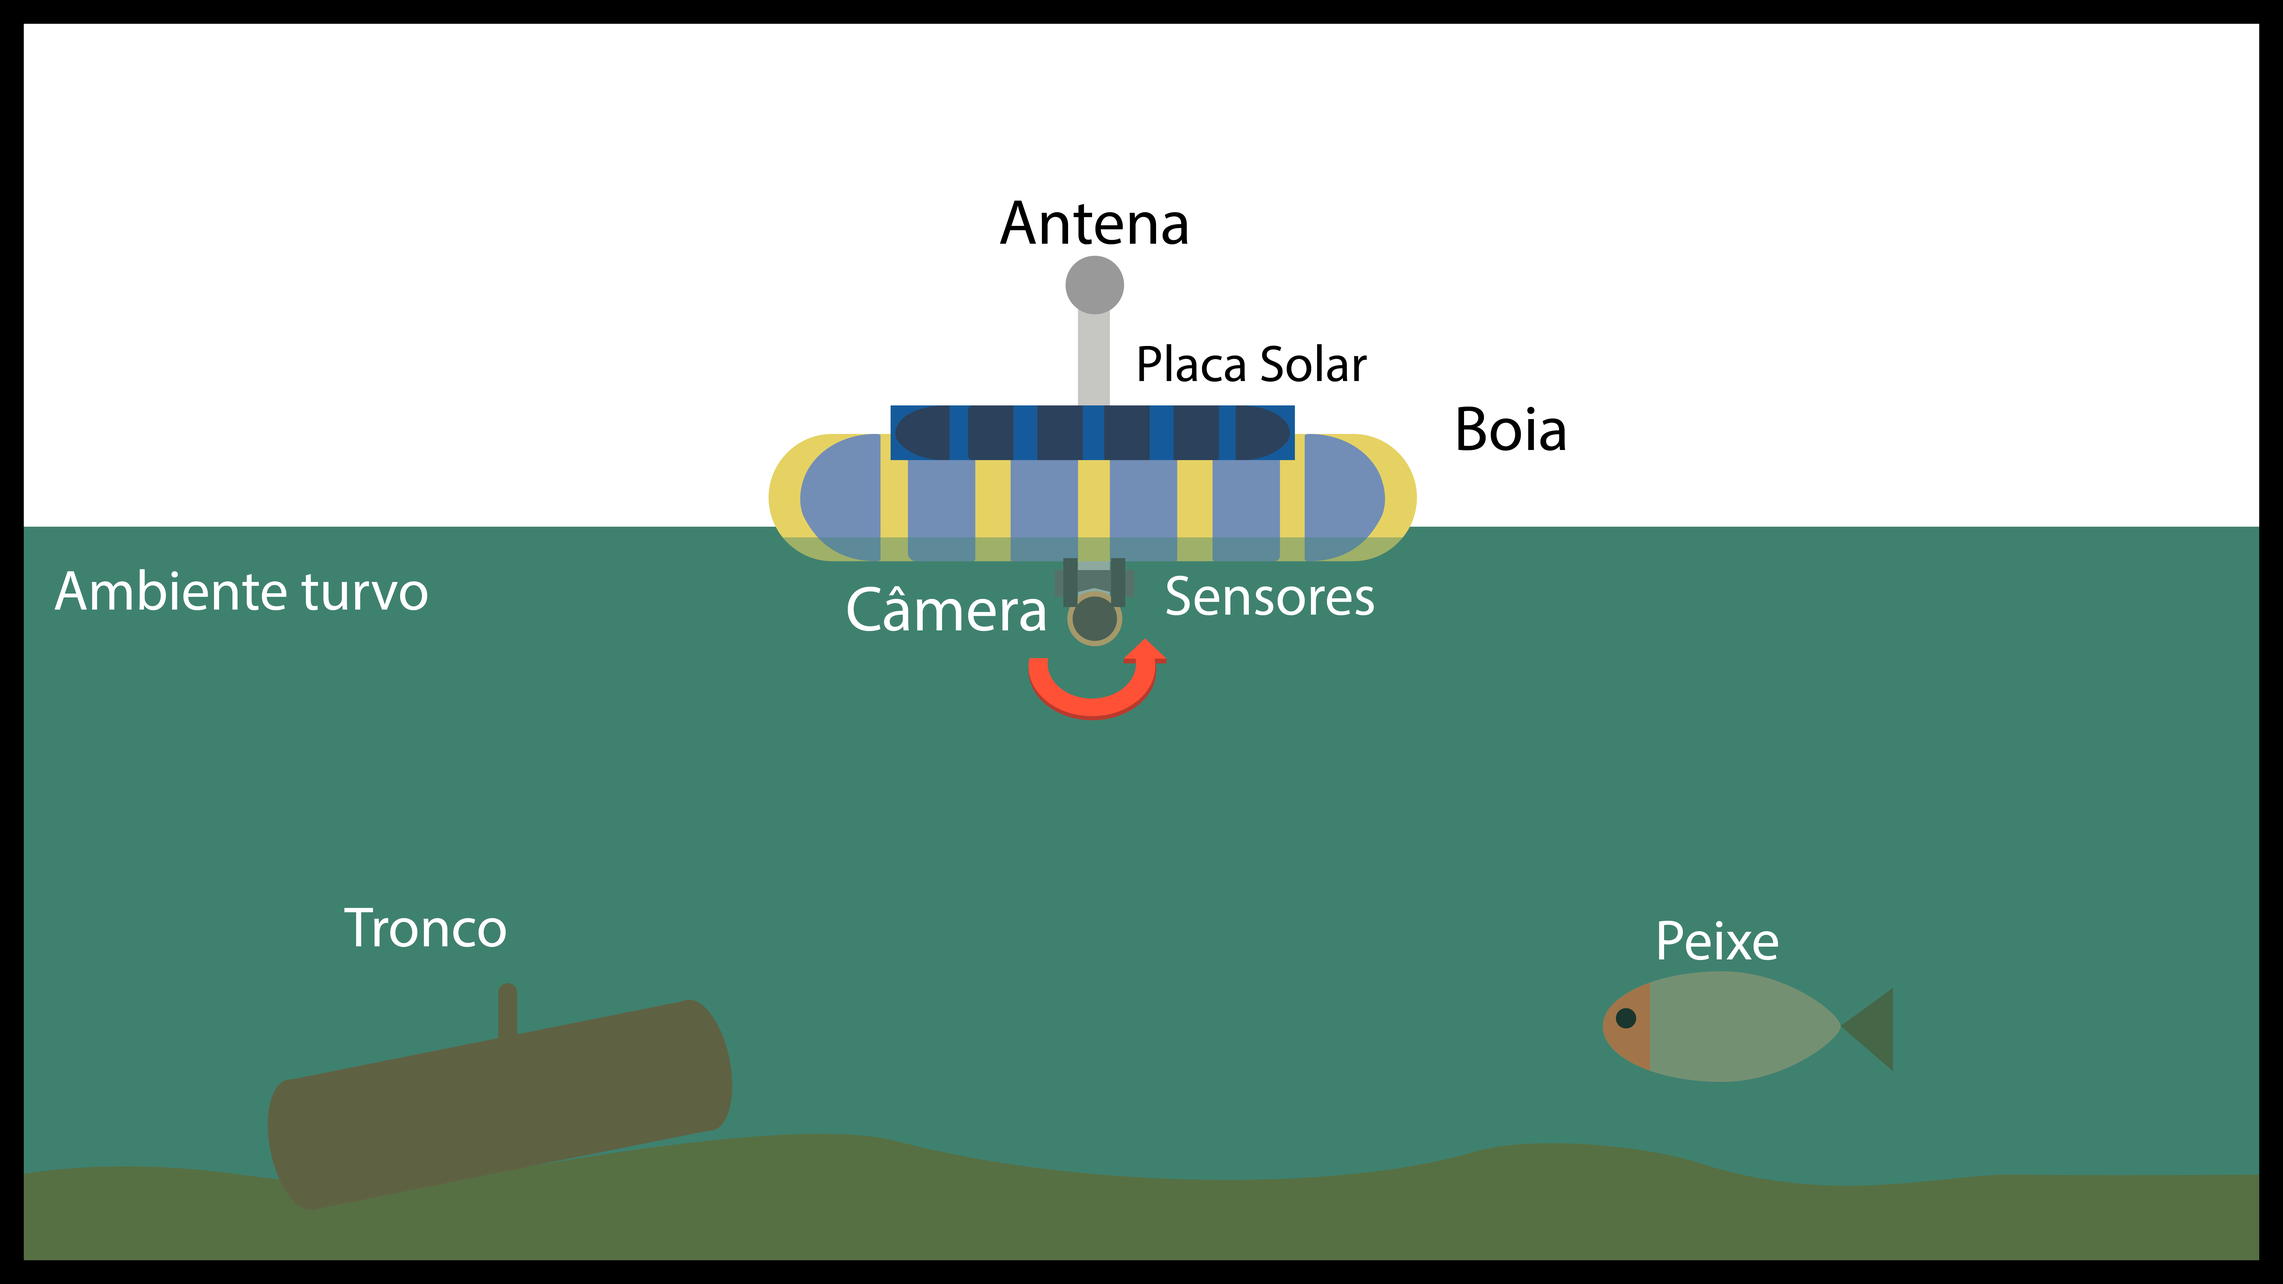
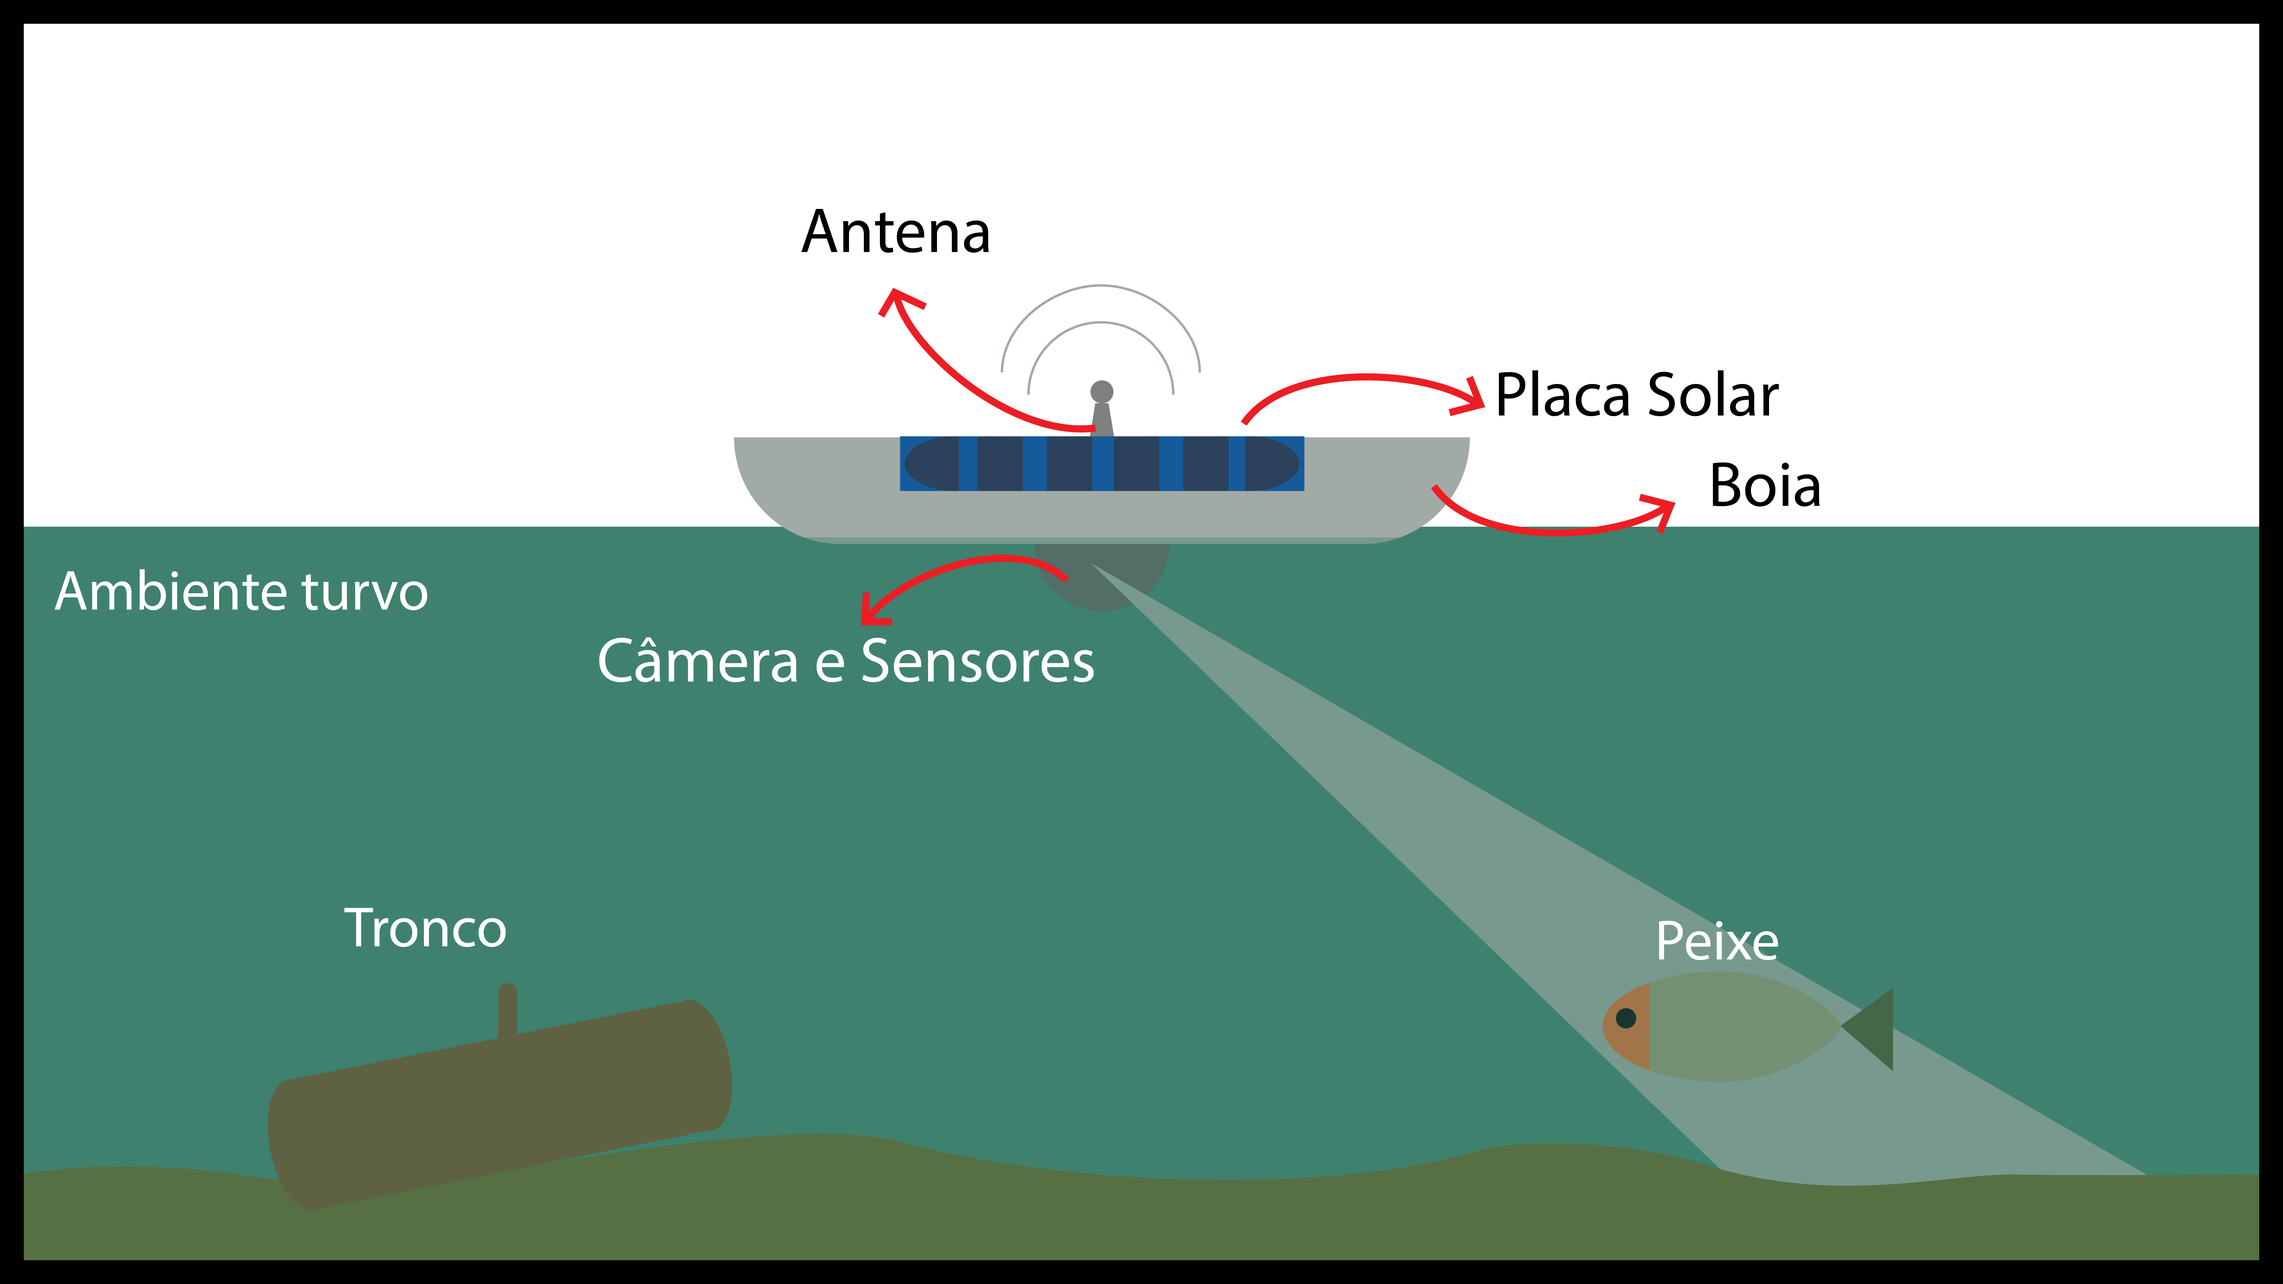
Updates 30

Changed region(s): [[0.25, 0.1562, 0.9375, 0.9375], [0.6562, 0.4062, 0.7188, 0.4375]]

diff --git a/sections/metodologia.tex b/sections/metodologia.tex
@@ -1,18 +1,22 @@
 \label{chapter:metodo}
 \section{Visão geral do método proposto}
    
-O sistema computacional proposto será estruturado em forma de boia aquatica, que será composta com microcontroladores, e sensores para análise da água e para a captura ótica, visando adquirir imagens subaquáticas em tempo real. O sistema proposto contará com um módulo de classificação em uma central conectada a boia como pode ser visto na Figura \ref{fig:bigpic}, onde os dados serão processados e exibidos para o usuário final. 
+O sistema computacional proposto será estruturado em forma de boia aquática, que será composta com microcontroladores, sensores para análise da água e para a captura ótica, visando adquirir imagens subaquáticas em tempo real. O sistema proposto contará com um módulo de classificação em uma central conectada, onde os dados serão processados e exibidos para o usuário final. 
+
+A interação com a Boia (ainda me desenvolvimento), será através de uma conexão sem fio, como pode ser visto na \autoref{fig:bigpic}, visando mais praticidade para o usuário final, assim como facilidade de transporte da Boia, uma vez que a Boia pode ser energizada utilizando um painel solar.
+
+ 
    
 %O sistema terá um sensor de captura ótica, que ficará submersos em água, acoplados à uma boia, que terá um conexão sem fio com um celular ou computador.
 
 \begin{figure}[ht]
 	\centering
     \caption{\label{fig:bigpic}Visão Geral}
-	\includegraphics[width = 0.6\textwidth]{resources/bugpicturefloater}
+	\includegraphics[width = \textwidth]{resources/bugpicturefloater}
     \legend{Fonte Própria}
 \end{figure}
 
-\todo[inline]{Descrever a imagem, na imagem tb não tem a parte da central}
+Na \autoref{fig:bigpic}, podemos ver como será o funcionamento do sistema computacional proposto em uma situação hipotética, e na \autoref{fig:storyb}, podemos ver como será feita a interação da Boia com a Central, mostrando suas etapas e telas. 
 
 \section{Sistema computacional de suporte a coleta de imagens em ambientes fluviais: Kraken}
 %\todo{o que será a boia;
@@ -21,91 +25,104 @@ O sistema computacional proposto será estruturado em forma de boia aquatica, qu
 %como será a centra;
 %falar sobre a possibilidade de adição de sensores;}
 
-O projeto será uma boia que com auxílio de microcontroladores que irão controlar os sistemas integrados ao sistema proposto, como motores e/ou estabilizadores e sensores para detecção de objetos e captura de imagens dentro do ambiente fluvial com alta turbidez, identificando objetos, classificando-os e especulando seu tamanho.
 
-\todo[inline]{O Texto acima está muito similar ao do ínicio modificar e ampliar a descrição de onde o sistema poderá ser utilizado}
+A Boia proposta contará com microcontroladores que serão responsáveis por gerenciar os sistemas integrados à mesma, como motores e/ou estabilizadores e sensores para detecção de objetos e captura de imagens dentro do ambiente fluvial com alta turbidez, identificando objetos, classificando-os e especulando seu tamanho. A Boia servirá para facilitar muitas atividades, por exemplo, a prática de mergulho em áreas de risco, onde a visibilidade é quase nula.
 
-A boia conta com auxílio de um módulo de classificação  de imagens que pode ser \textit{modelado} de acordo com a necessidade do ambiente, em especifico neste trabalho iremos adotar o \textit{framework Tensorflow}. A imagem será pré-processada antes de ser enviada ao classificador, isso irá garantir que a imagem esteja em perfeitas condições de classificação.
+A utilização de uma plataforma de sistema integrada (\textit{Single Board Computer}) com uso de microprocessador, contendo várias entradas (digitais e analógicas), irá garantir o suporte para novas extensões como um oxímetro, que irá medir o nível de oxigênio na água. O uso do microprocessador será o meio para interligar a maioria dos sensores e fará a conexão com a central, garantindo que os dados sejam tratados e enviados ao usuário final.
 
-A utilização de uma plataforma de sistema integrada com uso de microprocessador, contendo várias entradas (digitais e analógicas) irá garantir o suporte para novas extensões como um oxímetro, quer irá medir o nível de oxigênio na água. O uso do microprocessador será o meio para interligar a maioria dos sensores e fará a conexão com a central, garantindo que os dados sejam tratados e enviados ao usuário final.
-
-A central contará com um aplicativo de auxílio, onde serão exibidos os resultados para o usuário, tais como os dados coletados pela boia, garantindo uma entrega rápida de informação. Os dados classificados terão seus tamanhos especulados, e as imagens serão tratadas usando filtros com a biblioteca \textit{OpenCV}. O fluxo do sistema pode ser visto na \autoref{fig:fluxfish}, que descreve como o será o fluxo do sistema.
-
-\todo[inline]{O texto acima está muito confuso, mistura a classificação com as funções da boia, corrigir. Tudo deve se integrar e comunicar está faltando ordem.}
 
 \begin{figure}[ht]
-	\caption{\label{fig:fluxfish}  Fluxo de funcionamento do sistema proposto.}
+	\centering
+    \caption{\label{fig:storyb}\textit{Storyboard}}
+	\includegraphics[width = 1 \textwidth]{resources/storyboard.png}
+    \legend{Fonte Própria}
+\end{figure}
+
+A \autoref{fig:storyb} ilustra como serão as etapas de interação da Boia com a Central, que contará com um aplicativo de auxílio, onde serão exibidos os resultados para o usuário, tais como os dados coletados pela boia, garantindo uma entrega rápida de informação. 
+
+Os dados classificados terão seus tamanhos especulados, e as imagens serão tratadas usando filtros com a biblioteca \textit{OpenCV}. A imagem será pré-processada antes de ser enviada ao classificador, isso irá garantir que a imagem esteja em perfeitas condições de classificação.
+
+
+Além do aplicativo de auxilio, o sistema conta com um modulo de classificação de imagens que pode ser \textit{modelado} de acordo com a necessidade do ambiente, em especifico neste trabalho iremos adotar o \textit{framework Tensorflow}. 
+
+
+
+\begin{figure}[ht]
+	\caption{\label{fig:fluxcentral}  Fluxo de funcionamento do sistema proposto.}
 	 \begin{center}
-		\includegraphics[width = 0.9\textwidth]			{resources/fluxogeral}
+		\includegraphics[width = 0.5\textwidth]			{resources/Fluxo-central}
     \end{center}
     \legend{Fonte Própria}
 \end{figure}
 
-\todo[inline]{O Fluxo deve ser explicado e detalhado o seu funcionamento}
+Como demonstra a \autoref{fig:fluxcentral} o fluxo do sistema com a inicialização da aplicação, onde os módulos serão exibidos, dando opção para usuário abrir a aplicação para classificar e gerar o relatório da imagem. Em seguida a verificação se a Boia está conectada a Central e caso não esteja uma mensagem é retornada informando para o usuário que a conexão falhou, caso contrário, uma requisição de imagem é solicitada à Boia, onde mais uma vez será verificada a conexão com o sensor óptico, enviando mensagem de falha caso esteja desconectado. Uma vez que o a imagem é enviada para a Central, o módulo de classificação irá pré-processar a imagem caso seja necessário, e quando a imagem estiver adequada será processada e um relatório será gerado e exibido para o usuário.
 
-
-O diagrama de sequência representeado pela \autoref{fig:segkraken} mostra a sequência de interações do sistema, tais como: a interação do usuário com a Central; e da Central com a Boia. As condições caso haja falha nas conexões com os sensores e como proceder caso essas falhas sejam encontrodas.
+O diagrama de sequência representeado pela \autoref{fig:seqkraken} mostra a sequência de interações do sistema, tais como: a interação do usuário com a Central; e da Central com a Boia. As condições caso haja falha nas conexões com os sensores e como proceder caso essas falhas sejam encontradas.
 
 \begin{figure}[ht]
 	\caption{\label{fig:seqkraken}  Diagrama de sequencia do sistema proposto.}
 	 \begin{center}
-		\includegraphics[width = 0.9\textwidth]			{resources/sequencekraken}
+		\includegraphics[width = 1\textwidth]			{resources/sequencekraken}
     \end{center}
     \legend{Fonte Própria}
 \end{figure}
 
-\todo[inline]{As imagens não estão em ordem}
-
 \todo[inline]{O diagrama UML deve ser explicado e detalhado o seu funcionamento}
 
 
-\section{Analise dos dados na central de processamento}
+\section{Análise dos dados na central de processamento}
 
-Após a coleta das imagens, captados pelos sensores de captura as imagens\todo{exemplificar sensores} serão enviadas através de uma rede \textit{Wireless} para a Central, onde serão processados pelo módulo de Classificação que utilizará \textit{OpenCV} para os filtros de pré-processamento afim de melhorar a qualidade da imagem, caso seja necessário, e adequá-las para classificação usando o \textit{Tensorflow}, previamente modelado utilizando \textit{Inception}\todo{Descrever o que é o Inception}, para retreinar as últimas camadas da sua rede neural\todo{Descrever pq isto é feito}. 
-Após o processamento da imagem, será gerado um relatório sobre os dados processados dessa imagem, exibindo pro usuário o tamanho especulado\todo{Como o tamanho será calculado} e o resultado da classificação\todo{Qual será o tipo de saida desta classificação?}.
+Como ilustra a \autoref{fig:fluxoprocesso}, após a coleta das imagens captados pelos sensores de captura (como câmeras) as imagens serão enviadas através de uma rede \textit{Wireless} para a Central, onde serão processados pelo módulo de Classificação que utilizará \textit{OpenCV} para os filtros de pré-processamento afim de melhorar a qualidade da imagem, caso seja necessário, e adequá-las para classificação usando o \textit{Tensorflow}, previamente modelado utilizando \textit{Inception}, para retreinar as últimas camadas da sua rede neural. afim de . 
+Após o processamento da imagem, será gerado um relatório sobre os dados processados dessa imagem e o resultado da classificação, exibindo um infográfico mostrando os resultados.
+
+
+\begin{figure}[ht]
+	\centering
+    \caption{\label{fig:fluxoprocesso}Fluxo de Processos do Sistema Computacional Proposto}
+	\includegraphics[width = 1\textwidth]{resources/fluxo-de-processo.png}
+    \legend{Fonte Própria}
+\end{figure}
 
 \subsection{Pré processamento}
+A etapa de pré-processamento consiste em verificar a qualidade da imagem para decidir se ela, vai passar por certas etapas de processamento para melhorias na imagem, caso a imagem esteja apta a classificaçao a mesma será enviada  deve ou não ser enviada para o módulo de pré-processamento. Dada a situação onde o ambiente observado não tem suas águas turvas o envio para o módulo de classificação
 
-\todo[inline]{Adicionar texto de instrodução a seção, explicando a razão desta etapa.}
-\todo{place-holder}
+
+\begin{figure}[ht]
+	\centering
+    \caption{\label{fig:bigpic}Fluxo de Pré-processamento}
+	\includegraphics[width = 0.8\textwidth]{resources/fluxoprocessamento.png}
+    \legend{Fonte Própria}
+\end{figure}
 
 \subsubsection{Homomorphic filtering}
+De acordo com \citeonline{bazeille2006}, o filtro homomórfico pode ser utilizado pra corrigir os problemas de iluminação e melhorar o contraste da iamgem
+O filtro homomórfico é usado para corrigir
 
-\todo[inline]{Texto em inglês??????}
 The homomorphic filtering is used to correct non uniform illumi- nation and to enhance contrasts in the image. It’s a frequency filtering, preferred to others techniques [4][8] because it corrects non uniform lighting and sharpens the edges at the same time.
 
 
-\todo{place-holder}\subsubsection{Anisotropic filtering}
-\todo[inline]{Texto em inglês??????}
+\subsubsection{Anisotropic filtering}
+
  Anisotropic filtering allows us to simplify image features to improve image segmentation. This filter smooths the image in homogeneous area but preserves edges and enhance them. It is used to smooth textures and reduce artifacts by deleting small edges amplified by homomorphic filtering.
 
 
 \section{Análise dos sensores}
-Com a possibilidade da adição de extensões à Boia, como sensores de medição de oxigenação da água, a necessidade de analise desses é algo pertinente para o desempenho da boia. dada determinada situação onde a água não está com turbidez a utilização de um sensor pode detectar o ambiente e evitar que a central não necessite utilizar os filtros de pré-processamento nas imagens capturadas, melhorando o tempo de classificação.
 
-\todo[inline]{Confuso, a etapa será no futuro, não faz parte do método?}
+ Dada determinada situação onde a água não está com turbidez a utilização de um sensor pode detectar o ambiente e evitar que a central não necessite utilizar os filtros de pré-processamento nas imagens capturadas, melhorando o tempo de classificação.
+
+Com a possibilidade da adição de extensões à Boia, como sensores de medição de oxigenação da água, a necessidade de analise desses é algo pertinente para o desempenho da boia.
 
 
 
 \section{Construção da Boia}
 
-A estrutura da Boia será baseada na estrutura representada pela  \autoref{fig:shubfloater}, que visa baixo custo, utilizando materiais que podem ser encontrados com facilidade, como canos de PVC para a sustentação dos sensores e placas, tendo grande potencial para extensões ou modificações como alterar a estrutura para adicionar outro tipos de motores.
+A estrutura da Boia, que visa baixo custo, utilizará materiais que podem ser encontrados com facilidade, como canos de PVC para a sustentação dos sensores e placas, tendo grande potencial para extensões ou modificações como alterar a estrutura para adicionar outro tipos de motores.
 
-\begin{figure}[ht]
-	\caption{\label{fig:shubfloater}  Estrutura de USV proposto por 
-	Shubham.}
-	 \begin{center}
-		\includegraphics[width = 0.8\textwidth]			{resources/shubhamfloater}
-    \end{center}
-    \legend{Fonte: http://www.instructables.com/id/Arduino-RC-Amphibious-Rover/}
-\end{figure}
-
-\todo[inline]{Os meus comentários sobre está imagem não foram implementados}
-
-\todo[inline]{O ideal nesta parte é vc apresentar os componentes e uma possivel forma de construção e validação do prototipo}
 
 \todo[inline]{Está seção está bem dificil ainda tem muito trabalho a ser feito, sugiro reescrever. Lembrando que cada etap deve alimentar a próxima conforme o fluxo}
 
+\section{A Boia no futuro}
+Com a possibilidade da adição de extensões à Boia, como sensores de medição de oxigenação da água, a necessidade de analise desses é algo pertinente para o desempenho da boia.
 %\section{Identificação de Objetos utilizando openCV}
 %O método utilizado para nessa primeira fase de identificações consiste nas seguintes etapas. Como mostra a Figura~\ref{fig:fluxfish} 
 

diff --git a/sections/conceitos_e_definicoes.tex b/sections/conceitos_e_definicoes.tex
@@ -53,7 +53,7 @@ Existem também os \textit{Single Board Computers}, um bom exemplo é o \textit{
 \end{figure}
 
 \todo[inline]{Apresentar exemplos de uso na prática com Raspberry PI}
-Um bom exemplo de um sistema construído utilizando um \textit{Single Board Computer}, é o sistema proposto por\citeonline{Paper2014RaspberryE-mail}, que utiliza Raspberry Pi para automação residencial atrávez da internet utilizando e-mail.
+Um bom exemplo de um sistema construído utilizando um \textit{Single Board Computer}, é o sistema proposto por \citeonline{jain2014raspberry}, que utiliza Raspberry Pi para automação residencial através da internet utilizando e-mail. 
 
 \todo[inline]{Apresentar um discussão de quando usar Microcontroladores ou Single Board Computers com Microprocessadores}
 
